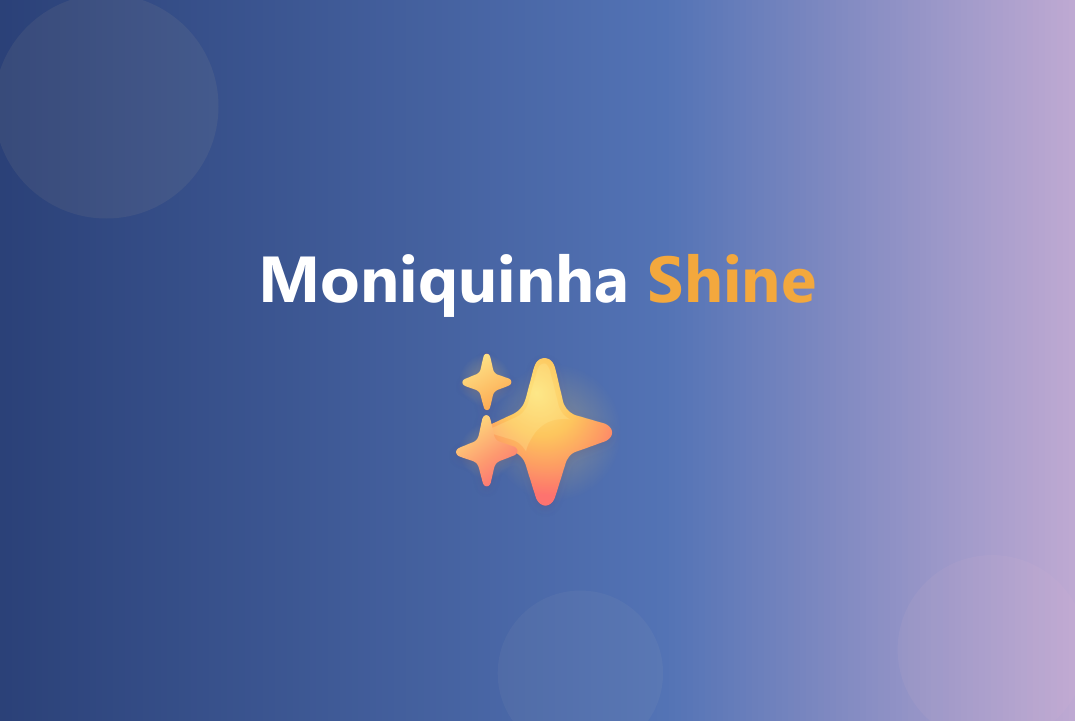
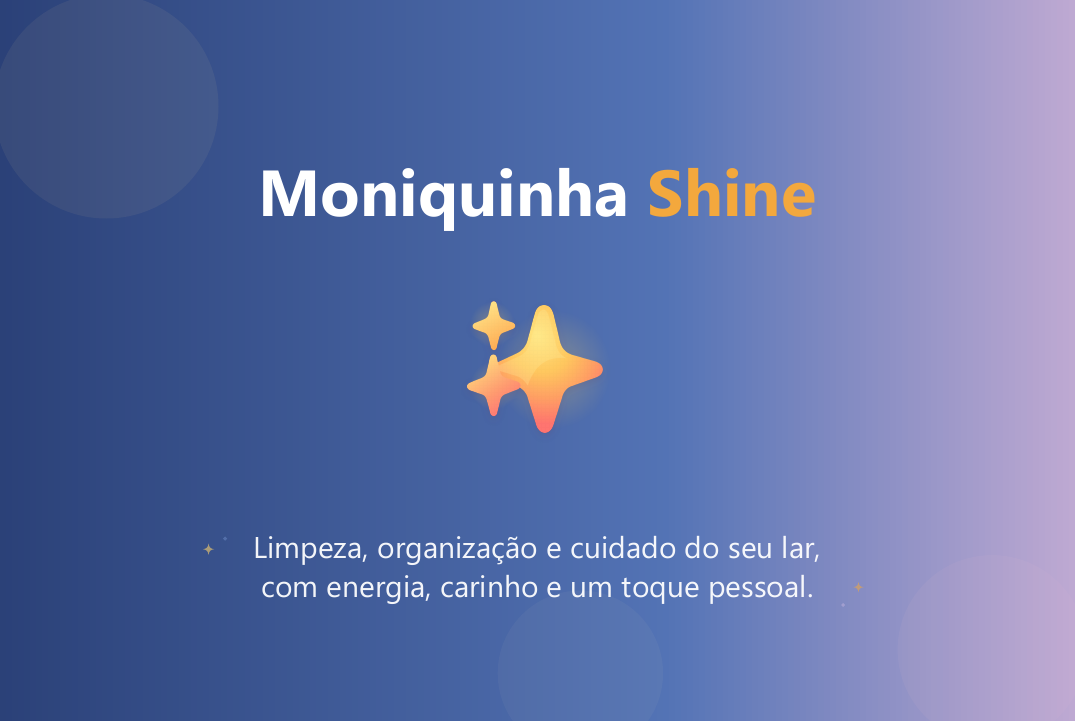
Finalize official business card design

Changed region(s): [[0.2456, 0.3356, 0.7674, 0.7018], [0.2456, 0.7323, 0.7674, 0.8544], [0.2456, 0.2136, 0.7674, 0.3356]]

diff --git a/scripts/create_business_card.py b/scripts/create_business_card.py
@@ -19,6 +19,7 @@ ROOT = Path(__file__).resolve().parents[1]
 OUT_DIR = ROOT / "output" / "pdf"
 PDF_PATH = OUT_DIR / "cartao-visita-moniquinha-shine.pdf"
 STAR_PATH = OUT_DIR / "moniquinha-star-print.png"
+WHATSAPP_PATH = OUT_DIR / "whatsapp-logo-gradient.png"
 
 
 def register_fonts():
@@ -71,7 +72,7 @@ def centered_brand(c: Canvas):
     lead_w = pdfmetrics.stringWidth(lead, font, size)
     accent_w = pdfmetrics.stringWidth(accent, font, size)
     x = (PAGE_W - lead_w - accent_w) / 2
-    baseline = PAGE_H * 0.58
+    baseline = PAGE_H * 0.70
 
     c.setFont(font, size)
     c.setFillColor(HexColor("#FFFFFF"))
@@ -79,17 +80,52 @@ def centered_brand(c: Canvas):
     c.setFillColor(HexColor("#F3A83D"))
     c.drawString(x + lead_w, baseline, accent)
 
-    star_w = 15 * MM
-    star_h = 15 * MM
+    star_w = 13 * MM
+    star_h = 13 * MM
     c.drawImage(
         ImageReader(str(STAR_PATH)),
         (PAGE_W - star_w) / 2,
-        baseline - 18.5 * MM,
+        baseline - 19.5 * MM,
         width=star_w,
         height=star_h,
         preserveAspectRatio=True,
         mask="auto",
     )
+
+    tagline_line_1 = "Limpeza, organização e cuidado do seu lar,"
+    tagline_line_2 = "com energia, carinho e um "
+    tagline_highlight = "toque pessoal."
+    tagline_font = "SegoeUI"
+    tagline_size = 7.2
+    tagline_leading = 9.4
+    first_baseline = BLEED + 10.7 * MM
+
+    c.saveState()
+    c.setFillColor(HexColor("#FFFFFF"))
+    c.setFillAlpha(0.94)
+    c.setFont(tagline_font, tagline_size)
+    line_1_width = pdfmetrics.stringWidth(tagline_line_1, tagline_font, tagline_size)
+    line_1_x = (PAGE_W - line_1_width) / 2
+    c.drawString(line_1_x, first_baseline, tagline_line_1)
+
+    prefix_width = pdfmetrics.stringWidth(tagline_line_2, tagline_font, tagline_size)
+    highlight_width = pdfmetrics.stringWidth(tagline_highlight, tagline_font, tagline_size)
+    second_x = (PAGE_W - prefix_width - highlight_width) / 2
+    c.drawString(second_x, first_baseline - tagline_leading, tagline_line_2)
+    c.setFillColor(HexColor("#FFFFFF"))
+    c.setFillAlpha(0.94)
+    c.setFont(tagline_font, tagline_size)
+    second_y = first_baseline - tagline_leading
+    c.drawString(second_x + prefix_width, second_y, tagline_highlight)
+    c.restoreState()
+
+    # Two tiny, asymmetric sparkle clusters give the copy a branded finish
+    # without enclosing it or competing with the main mark.
+    draw_sparkle(c, line_1_x - 3.8 * MM, first_baseline + 0.8 * MM, 0.48 * MM, "#FFD36A", 0.58)
+    draw_sparkle(c, line_1_x - 2.4 * MM, first_baseline + 1.7 * MM, 0.18 * MM, "#7897D2", 0.42)
+    right_x = second_x + prefix_width + highlight_width
+    draw_sparkle(c, right_x + 3.8 * MM, second_y + 0.9 * MM, 0.44 * MM, "#F3A83D", 0.54)
+    draw_sparkle(c, right_x + 2.5 * MM, second_y - 0.6 * MM, 0.17 * MM, "#CDB9E3", 0.42)
 
 
 def draw_sparkle(c: Canvas, x, y, radius, color, alpha):
@@ -176,6 +212,36 @@ def golden_glitter_line(c: Canvas, center_x, center_y):
     c.restoreState()
 
 
+def draw_whatsapp_badge(c: Canvas, x, y, radius):
+    """Draw the official WhatsApp glyph recolored with the brand gradient."""
+    diameter = 2 * radius
+    c.drawImage(
+        ImageReader(str(WHATSAPP_PATH)),
+        x - radius,
+        y - radius,
+        width=diameter,
+        height=diameter,
+        preserveAspectRatio=True,
+        mask="auto",
+    )
+
+
+def centered_whatsapp_contact(c: Canvas, center_y):
+    number = "+351 915 520 147"
+    font = "SegoeUI-Bold"
+    size = 8.8
+    radius = 2.35 * MM
+    gap = 2.0 * MM
+    number_width = pdfmetrics.stringWidth(number, font, size)
+    group_width = 2 * radius + gap + number_width
+    badge_x = (PAGE_W - group_width) / 2 + radius
+    draw_whatsapp_badge(c, badge_x, center_y + 1.0, radius)
+
+    c.setFont(font, size)
+    c.setFillColor(HexColor("#FFF5DD"))
+    c.drawString(badge_x + radius + gap, center_y - size * 0.32, number)
+
+
 def centered_website(c: Canvas):
     text = "www.moniquinhashine.pt"
     font = "SegoeUI-Bold"
@@ -183,9 +249,10 @@ def centered_website(c: Canvas):
     width = pdfmetrics.stringWidth(text, font, size)
     c.setFont(font, size)
     c.setFillColor(HexColor("#FFFFFF"))
-    c.drawString((PAGE_W - width) / 2, (PAGE_H - size) / 2 + 2, text)
+    c.drawString((PAGE_W - width) / 2, PAGE_H * 0.59, text)
 
-    golden_glitter_line(c, PAGE_W / 2, PAGE_H * 0.39)
+    centered_whatsapp_contact(c, PAGE_H * 0.43)
+    golden_glitter_line(c, PAGE_W / 2, PAGE_H * 0.29)
 
 
 def create_pdf():
